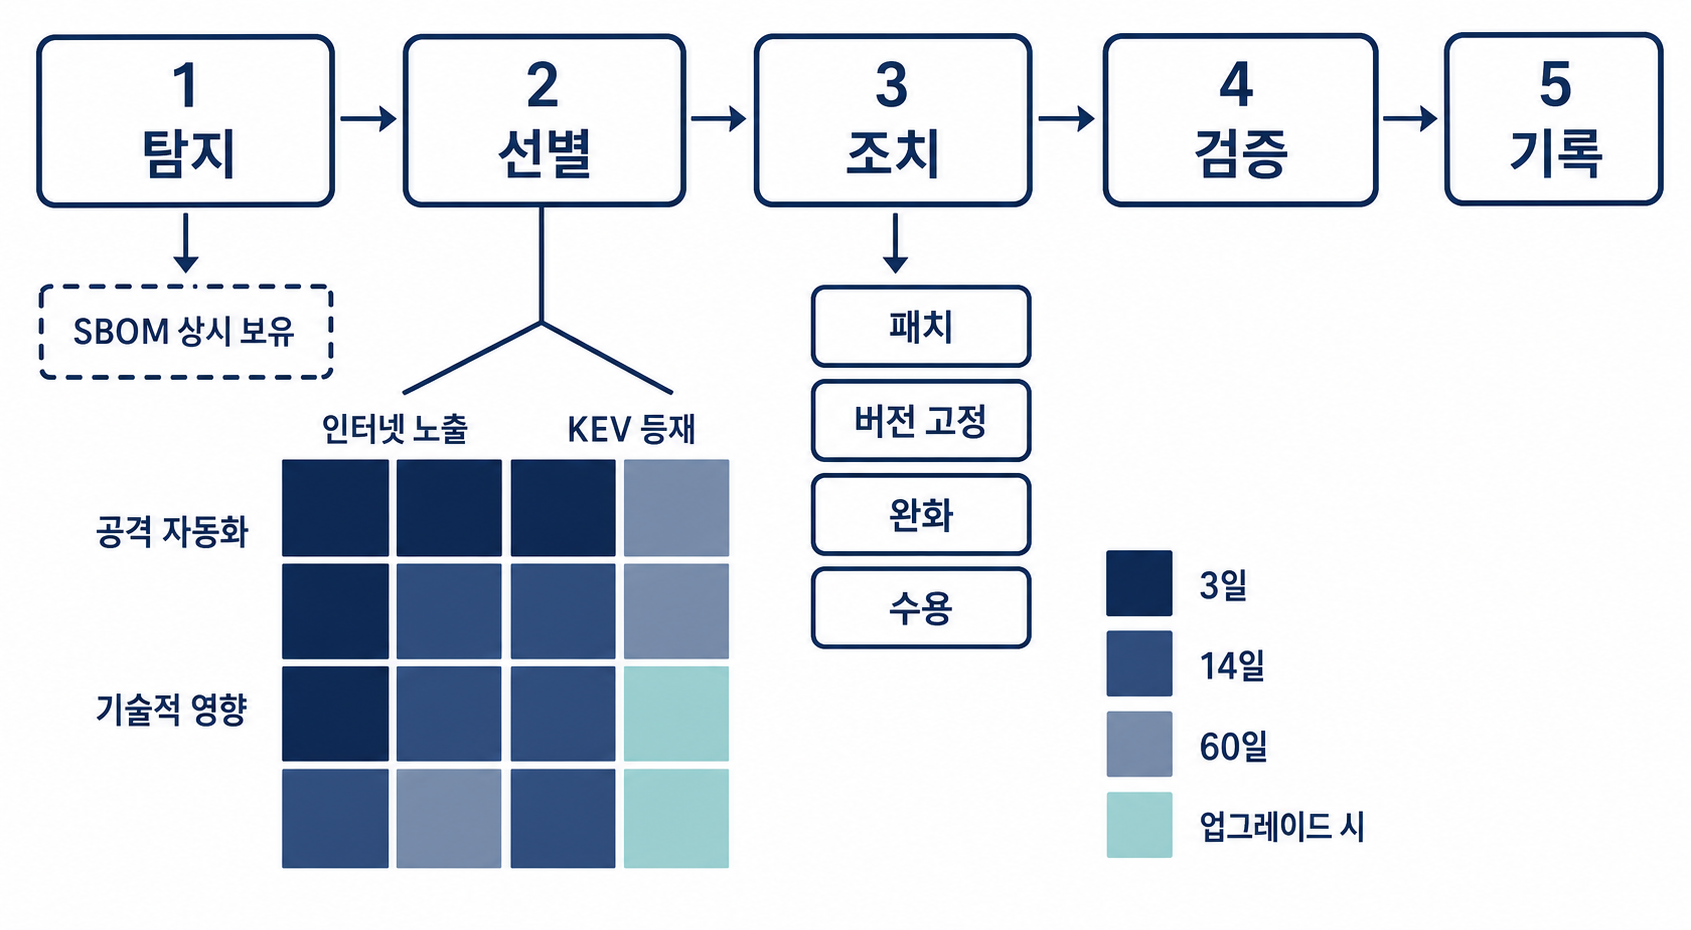
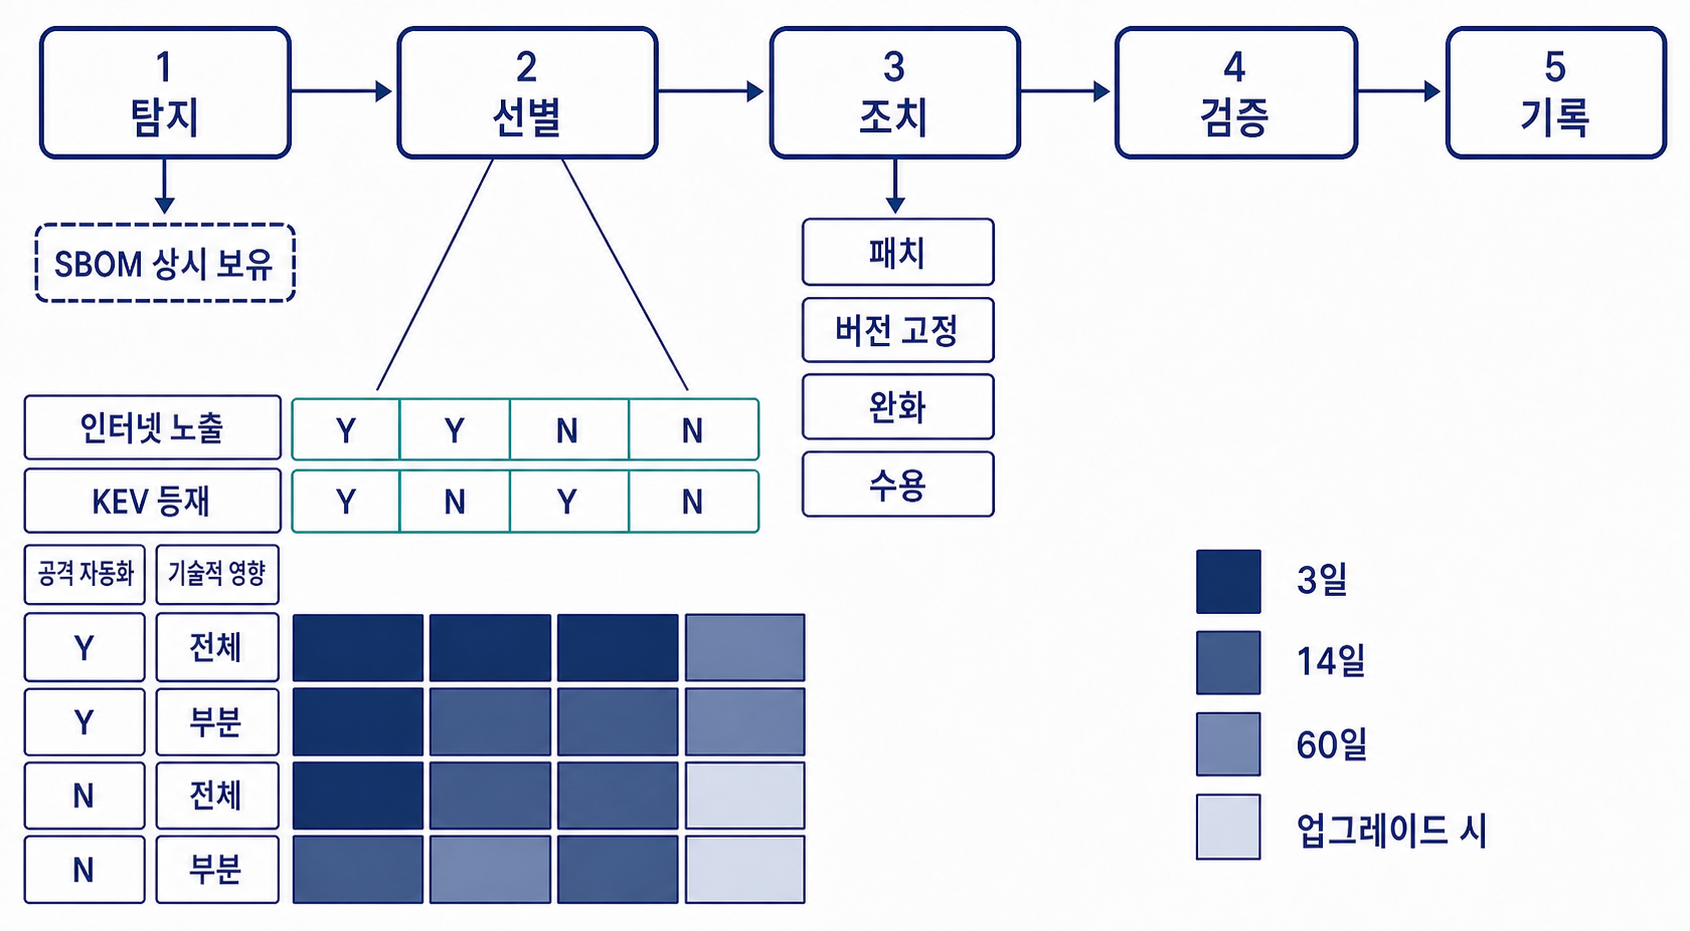
재검토 지적 반영 — 조문 번호 정정, 성장률 계산, 격자 눈금 라벨
세 건이다.

1. AI 기본법 조문 번호. 앞선 수정에서 과태료 근거를 제43조 제1항 제2호로 붙였는데
   제2호는 국내대리인 미지정이고 고지 미이행은 제1호다. 제1호로 고치고, 제1호가 잡는
   범위가 제31조 제1항(사전 고지)이므로 '고지·표시 의무'라는 넓은 서술도 되돌린다.
   계도기간 각주를 법무법인 뉴스레터에서 과기정통부 정책브리핑(2025-11-12)으로 교체해
   본문이 근거로 삼는 주체와 각주를 맞춘다.

2. 국내 시장 성장률. 3,380억에서 3,835억은 13.5%다. 본문에 연도별 계보가 함께 실려
   독자가 바로 검산할 수 있는 자리이므로 계보에서 계산한 값으로 적고, 보도의 '약 15%'
   표현은 인용임을 밝힌다. 아울러 이 보고서 원문이 NIPA 발간자료에 공개되어 있지 않아
   언론 보도로 확인했다는 사실을 각주에 남긴다.

3. 취약점 선별 격자. 축 이름만 있고 눈금 라벨이 없어 어느 칸이 어느 조합인지 특정할
   수 없었다. 열에 인터넷 노출 Y·Y·N·N 과 KEV 등재 Y·N·Y·N, 행에 공격 자동화 Y·Y·N·N
   과 기술적 영향 전체·부분·전체·부분 눈금을 넣어 16칸을 개별 지목할 수 있게 한다.
   칸의 채움 등급은 바꾸지 않았다.

Changed region(s): [[0.0, 0.0, 1.0, 0.9978], [0.6462, 0.5613, 0.8923, 0.9355]]

diff --git a/oss-governance-guide-2026.md b/oss-governance-guide-2026.md
@@ -262,9 +262,9 @@ DataReportal의 [Digital 2024: South Korea 보고서](https://datareportal.com/r
 [^using-istio]: 이스티오(Istio) : https://istio.io
 [^using-prometheus]: 프로메테우스(Prometheus) : https://prometheus.io
 
-국내 오픈소스SW 시장은 빠르진 않아도 꾸준히 커지고 있다. NIPA 「2023 오픈소스SW(OSS) 실태조사 보고서」는 국내 시장 규모를 2023년 3,835억 원으로 집계했다[^using-nipa2023survey]. 2020년 2,843억 원, 2021년 3,032억 원, 2022년 3,380억 원을 거쳐 온 수치이며 2023년 성장률은 전년 대비 약 15%다. 기업의 활용률은 전체 69%, SW기업 100%, 비SW산업 56%로 업종 간 격차가 크다. 조사는 국내 기업 1,287개와 개발자 1,250명을 대상으로 했다. 국내 수치는 이 조사가 이 가이드 집필 시점에 확인 가능한 최신 전수 조사이므로 2023년 기준으로 읽어야 한다.
+국내 오픈소스SW 시장은 빠르진 않아도 꾸준히 커지고 있다. NIPA 「2023 오픈소스SW(OSS) 실태조사 보고서」는 국내 시장 규모를 2023년 3,835억 원으로 집계했다[^using-nipa2023survey]. 2020년 2,843억 원, 2021년 3,032억 원, 2022년 3,380억 원을 거쳐 온 수치다. 2023년 증가율은 이 계보로 계산하면 전년 대비 13.5%다(인용한 보도는 '약 15% 성장'으로 적었다). 기업의 활용률은 전체 69%, SW기업 100%, 비SW산업 56%로 업종 간 격차가 크다. 조사는 국내 기업 1,287개와 개발자 1,250명을 대상으로 했다. 국내 수치는 이 조사가 이 가이드 집필 시점에 확인 가능한 최신 전수 조사이므로 2023년 기준으로 읽어야 한다.
 
-[^using-nipa2023survey]: NIPA 「2023 오픈소스SW(OSS) 실태조사 보고서」. 수치는 전자신문 2024년 6월 10일 보도로 확인했다 : https://www.etnews.com/20240610000212
+[^using-nipa2023survey]: NIPA 「2023 오픈소스SW(OSS) 실태조사 보고서」. 이 보고서 원문은 NIPA 발간자료 게시판에 공개되어 있지 않아(게시된 것은 2021년판뿐이다) 수치는 전자신문 2024년 6월 10일 보도로 확인했다. 'SW기업 활용률 100%' 같은 극단값은 1차 출처로 확인하지 못했으므로 다음 개정 때 원문을 다시 찾는다 : https://www.etnews.com/20240610000212
 
 이러한 추세는 국내 오픈소스SW 생태계가 단순한 사용을 넘어 글로벌 오픈소스SW 커뮤니티에 적극적으로 참여하고 기여하는 단계로 발전하고 있음을 보여준다. 특히 금융, 제조, 유통 등 전통 산업 분야에서도 오픈소스SW 기술 도입이 가속화되고 있어, 앞으로 국내 오픈소스SW 시장의 성장세는 더욱 가파를 것으로 전망된다.
 
@@ -4380,13 +4380,13 @@ GPAI 제공자가 관리할 시행 일자는 세 개다[^ai-ai-act]. 이 세 일
 
 표시 방식은 결과물의 성격에 따라 갈린다. 딥페이크 결과물은 사람이 명확히 인식할 수 있는 가시적 표시가 필요하다. 일반 생성물은 사람 인식 방식과 기계 판독 방식(워터마크·메타데이터) 중에서 선택할 수 있으나, 기계 판독 방식을 택하면 안내 문구나 음성을 최소 1회 제공해야 한다[^ai-ai-kr-aiact-decree].
 
-핵심은 예외의 부재다. 제31조 제4항과 시행령 제23조에 일부 예외(사용이 명백한 경우, 내부 업무 목적 사용 등)가 있으나, 오픈소스 AI를 대상으로 한 예외는 확인되지 않았다. 제재는 고지·표시 의무 위반 시 3천만원 이하 과태료다(법 제43조 제1항 제2호)[^ai-ai-kr-aiact]. 다만 과학기술정보통신부는 시행령 입법예고 단계에서 과태료 부과에 최소 1년 이상의 계도기간을 두겠다고 밝혔으므로, 실제 부과는 2027년 이후가 될 가능성이 크다[^ai-ai-kr-grace].
+핵심은 예외의 부재다. 제31조 제4항과 시행령 제23조에 일부 예외(사용이 명백한 경우, 내부 업무 목적 사용 등)가 있으나, 오픈소스 AI를 대상으로 한 예외는 확인되지 않았다. 제재가 붙는 대상은 제31조 제1항의 사전 고지다. 이를 이행하지 않으면 3천만원 이하 과태료이며(법 제43조 제1항 제1호)[^ai-ai-kr-aiact], 같은 항 제2호는 고지가 아니라 국내대리인 미지정을 잡는다. 다만 과학기술정보통신부는 시행령 입법예고 단계에서 '과태료 계도기간을 최소 1년 이상 운영할 계획'이라고 밝혔으므로 실제 부과는 2027년 이후가 될 가능성이 크다[^ai-ai-kr-grace].
 
 실행 지시는 하나다. AI 고지·표시를 기존 오픈소스SW 고지 화면과 같은 위치에 배치해 운영 부담을 줄이고, 오픈소스SW 모델 사용이 면제 사유가 아님을 정책 문서에 명시한다.
 
 [^ai-ai-kr-aiact]: 국가법령정보센터, 인공지능 발전과 신뢰 기반 조성 등에 관한 기본법 : https://www.law.go.kr/lsInfoP.do?lsiSeq=268543
 [^ai-ai-kr-aiact-decree]: 국가법령정보센터, 인공지능 발전과 신뢰 기반 조성 등에 관한 기본법 시행령(시행 2026-01-22) : https://www.law.go.kr/LSW/lsInfoP.do?efYd=20260122&lsiSeq=282879
-[^ai-ai-kr-grace]: 과태료 계도기간 운영 등 상세조항을 담은 'AI 기본법' 시행령 입법예고 (2차 출처 — 법무법인 뉴스레터) : https://www.daeryunlaw.com/newsletter/news/246
+[^ai-ai-kr-grace]: 대한민국 정책브리핑, "'AI로 생성된 결과물' 고지해야…AI기본법 시행령 입법예고" (과학기술정보통신부, 2025-11-12) : https://www.korea.kr/news/policyNewsView.do?newsId=148954629
 
 #### AI 생성 코드에 저작권이 있는가 — 미국 저작권청의 입장과 국내 미확립
 

diff --git a/content/en/ai/_index.md b/content/en/ai/_index.md
@@ -322,13 +322,13 @@ GPAI 제공자가 관리할 시행 일자는 세 개다[^ai-act]. 이 세 일자
 
 표시 방식은 결과물의 성격에 따라 갈린다. 딥페이크 결과물은 사람이 명확히 인식할 수 있는 가시적 표시가 필요하다. 일반 생성물은 사람 인식 방식과 기계 판독 방식(워터마크·메타데이터) 중에서 선택할 수 있으나, 기계 판독 방식을 택하면 안내 문구나 음성을 최소 1회 제공해야 한다[^ai-kr-aiact-decree].
 
-핵심은 예외의 부재다. 제31조 제4항과 시행령 제23조에 일부 예외(사용이 명백한 경우, 내부 업무 목적 사용 등)가 있으나, 오픈소스 AI를 대상으로 한 예외는 확인되지 않았다. 제재는 고지·표시 의무 위반 시 3천만원 이하 과태료다(법 제43조 제1항 제2호)[^ai-kr-aiact]. 다만 과학기술정보통신부는 시행령 입법예고 단계에서 과태료 부과에 최소 1년 이상의 계도기간을 두겠다고 밝혔으므로, 실제 부과는 2027년 이후가 될 가능성이 크다[^ai-kr-grace].
+핵심은 예외의 부재다. 제31조 제4항과 시행령 제23조에 일부 예외(사용이 명백한 경우, 내부 업무 목적 사용 등)가 있으나, 오픈소스 AI를 대상으로 한 예외는 확인되지 않았다. 제재가 붙는 대상은 제31조 제1항의 사전 고지다. 이를 이행하지 않으면 3천만원 이하 과태료이며(법 제43조 제1항 제1호)[^ai-kr-aiact], 같은 항 제2호는 고지가 아니라 국내대리인 미지정을 잡는다. 다만 과학기술정보통신부는 시행령 입법예고 단계에서 '과태료 계도기간을 최소 1년 이상 운영할 계획'이라고 밝혔으므로 실제 부과는 2027년 이후가 될 가능성이 크다[^ai-kr-grace].
 
 실행 지시는 하나다. AI 고지·표시를 기존 오픈소스SW 고지 화면과 같은 위치에 배치해 운영 부담을 줄이고, 오픈소스SW 모델 사용이 면제 사유가 아님을 정책 문서에 명시한다.
 
 [^ai-kr-aiact]: 국가법령정보센터, 인공지능 발전과 신뢰 기반 조성 등에 관한 기본법 : https://www.law.go.kr/lsInfoP.do?lsiSeq=268543
 [^ai-kr-aiact-decree]: 국가법령정보센터, 인공지능 발전과 신뢰 기반 조성 등에 관한 기본법 시행령(시행 2026-01-22) : https://www.law.go.kr/LSW/lsInfoP.do?efYd=20260122&lsiSeq=282879
-[^ai-kr-grace]: 과태료 계도기간 운영 등 상세조항을 담은 'AI 기본법' 시행령 입법예고 (2차 출처 — 법무법인 뉴스레터) : https://www.daeryunlaw.com/newsletter/news/246
+[^ai-kr-grace]: 대한민국 정책브리핑, "'AI로 생성된 결과물' 고지해야…AI기본법 시행령 입법예고" (과학기술정보통신부, 2025-11-12) : https://www.korea.kr/news/policyNewsView.do?newsId=148954629
 
 #### AI 생성 코드에 저작권이 있는가 — 미국 저작권청의 입장과 국내 미확립
 

diff --git a/content/en/using/_index.md b/content/en/using/_index.md
@@ -64,9 +64,9 @@ DataReportal의 [Digital 2024: South Korea 보고서](https://datareportal.com/r
 [^istio]: 이스티오(Istio) : https://istio.io
 [^prometheus]: 프로메테우스(Prometheus) : https://prometheus.io
 
-국내 오픈소스SW 시장은 빠르진 않아도 꾸준히 커지고 있다. NIPA 「2023 오픈소스SW(OSS) 실태조사 보고서」는 국내 시장 규모를 2023년 3,835억 원으로 집계했다[^nipa2023survey]. 2020년 2,843억 원, 2021년 3,032억 원, 2022년 3,380억 원을 거쳐 온 수치이며 2023년 성장률은 전년 대비 약 15%다. 기업의 활용률은 전체 69%, SW기업 100%, 비SW산업 56%로 업종 간 격차가 크다. 조사는 국내 기업 1,287개와 개발자 1,250명을 대상으로 했다. 국내 수치는 이 조사가 이 가이드 집필 시점에 확인 가능한 최신 전수 조사이므로 2023년 기준으로 읽어야 한다.
+국내 오픈소스SW 시장은 빠르진 않아도 꾸준히 커지고 있다. NIPA 「2023 오픈소스SW(OSS) 실태조사 보고서」는 국내 시장 규모를 2023년 3,835억 원으로 집계했다[^nipa2023survey]. 2020년 2,843억 원, 2021년 3,032억 원, 2022년 3,380억 원을 거쳐 온 수치다. 2023년 증가율은 이 계보로 계산하면 전년 대비 13.5%다(인용한 보도는 '약 15% 성장'으로 적었다). 기업의 활용률은 전체 69%, SW기업 100%, 비SW산업 56%로 업종 간 격차가 크다. 조사는 국내 기업 1,287개와 개발자 1,250명을 대상으로 했다. 국내 수치는 이 조사가 이 가이드 집필 시점에 확인 가능한 최신 전수 조사이므로 2023년 기준으로 읽어야 한다.
 
-[^nipa2023survey]: NIPA 「2023 오픈소스SW(OSS) 실태조사 보고서」. 수치는 전자신문 2024년 6월 10일 보도로 확인했다 : https://www.etnews.com/20240610000212
+[^nipa2023survey]: NIPA 「2023 오픈소스SW(OSS) 실태조사 보고서」. 이 보고서 원문은 NIPA 발간자료 게시판에 공개되어 있지 않아(게시된 것은 2021년판뿐이다) 수치는 전자신문 2024년 6월 10일 보도로 확인했다. 'SW기업 활용률 100%' 같은 극단값은 1차 출처로 확인하지 못했으므로 다음 개정 때 원문을 다시 찾는다 : https://www.etnews.com/20240610000212
 
 이러한 추세는 국내 오픈소스SW 생태계가 단순한 사용을 넘어 글로벌 오픈소스SW 커뮤니티에 적극적으로 참여하고 기여하는 단계로 발전하고 있음을 보여준다. 특히 금융, 제조, 유통 등 전통 산업 분야에서도 오픈소스SW 기술 도입이 가속화되고 있어, 앞으로 국내 오픈소스SW 시장의 성장세는 더욱 가파를 것으로 전망된다.
 
